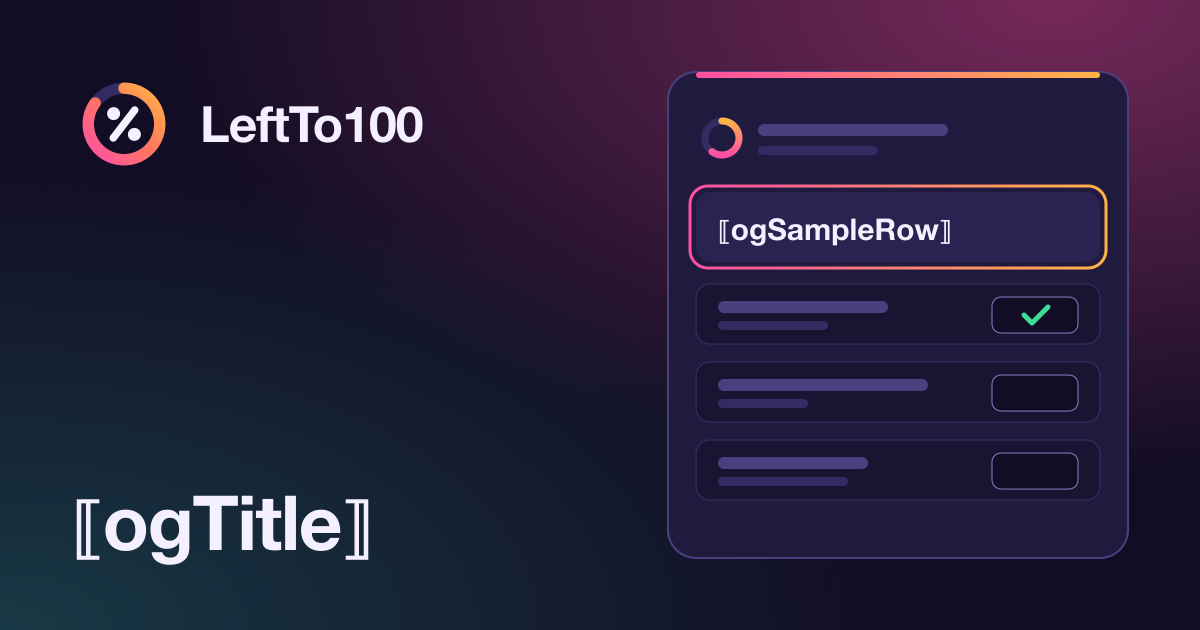
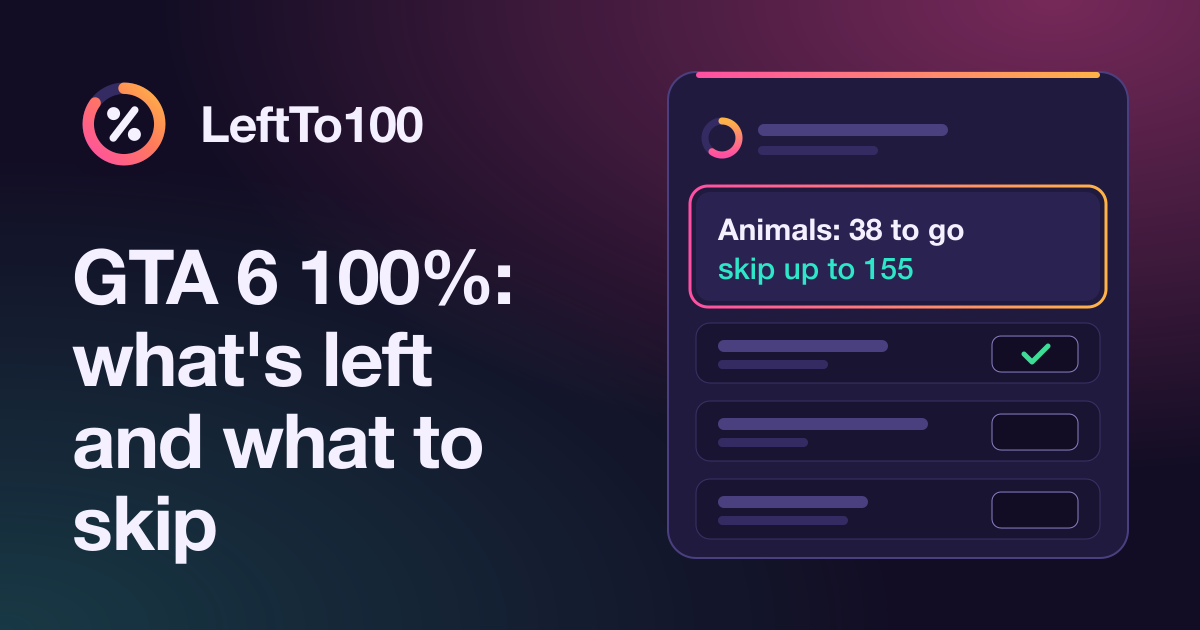
UI round 1: paste final copy for new strings, regenerate images

diff --git a/src/copy/r1.ts b/src/copy/r1.ts
@@ -1,5 +1,5 @@
 /**
- * UI round 1 strings. Placeholder values (⟦key⟧) until the copy writer's final text is pasted in.
+ * UI round 1 strings. Final text from the copy writer (copy/COPY_DECK_R1.md), pasted verbatim.
  * Keep this file plain, erasable TypeScript: scripts/make-images.mjs imports it with Node's type stripping
  * to render the OG image, so `pnpm images` picks up pasted text without other changes.
  */
@@ -51,27 +51,28 @@ export interface R1Copy {
 }
 
 export const r1: R1Copy = {
-  trapToggle: (n) => (n === 1 ? `⟦trapToggle.one:${n}⟧` : `⟦trapToggle.other:${n}⟧`),
-  badgeLegend: '⟦badgeLegend⟧',
-  errMax: (max) => `⟦errMax:${max}⟧`,
-  jumpNavLabel: '⟦jumpNavLabel⟧',
-  jumpBeforeFinish: '⟦jumpBeforeFinish⟧',
+  trapToggle: (n) => (n === 1 ? 'Watch out: 1 note' : `Watch out: ${n} notes`),
+  badgeLegend: 'Unmarked items are verified (2+ sources). Badges mark reported (1 source) or disputed items.',
+  errMax: (max) => `Enter ${max} or less`,
+  jumpNavLabel: 'Calculator sections',
+  jumpBeforeFinish: 'Before you finish',
   chapterStrip: {
-    some: (n, chapter) => (n === 1 ? `⟦chapterStrip.some.one:${n}:${chapter}⟧` : `⟦chapterStrip.some.other:${n}:${chapter}⟧`),
-    none: (chapter) => `⟦chapterStrip.none:${chapter}⟧`,
-    notStarted: '⟦chapterStrip.notStarted⟧',
-    finished: '⟦chapterStrip.finished⟧',
+    some: (n, chapter) =>
+      n === 1 ? `1 reported missable at the end of ${chapter}.` : `${n} reported missables at the end of ${chapter}.`,
+    none: (chapter) => `No 100% missables are reported at the end of ${chapter}.`,
+    notStarted: 'Pick your chapter above to see spoiler-safe missable warnings.',
+    finished: 'No chapter lockouts ahead. Log earlier missables to update your plan.',
   },
-  chapterStripLink: '⟦chapterStripLink⟧',
-  dontLoseHeading: (chapter) => `⟦dontLoseHeading:${chapter}⟧`,
-  backToResult: '⟦backToResult⟧',
-  verdictUncertain: '⟦verdictUncertain⟧',
-  verdictDone: '⟦verdictDone⟧',
-  resetConfirm: '⟦resetConfirm⟧',
-  resetCancel: '⟦resetCancel⟧',
-  heroCta: '⟦heroCta⟧',
-  announce: (name, result) => `⟦announce:${name}:${result}⟧`,
-  missableUnanswered: '⟦missableUnanswered⟧',
-  ogTitle: '⟦ogTitle⟧',
-  ogSampleRow: '⟦ogSampleRow⟧',
+  chapterStripLink: 'See chapter missables',
+  dontLoseHeading: (chapter) => `Before you finish ${chapter}`,
+  backToResult: 'Back to your card plan',
+  verdictUncertain: 'Finish or skip',
+  verdictDone: 'Done',
+  resetConfirm: 'Confirm reset',
+  resetCancel: 'Cancel',
+  heroCta: 'Enter your counts',
+  announce: (name, result) => `${name}: ${result}`,
+  missableUnanswered: 'Not answered yet—treated as "Not sure".',
+  ogTitle: "GTA 6 100%: what's left and what to skip",
+  ogSampleRow: 'Animals: 38 to go · skip up to 155',
 };
